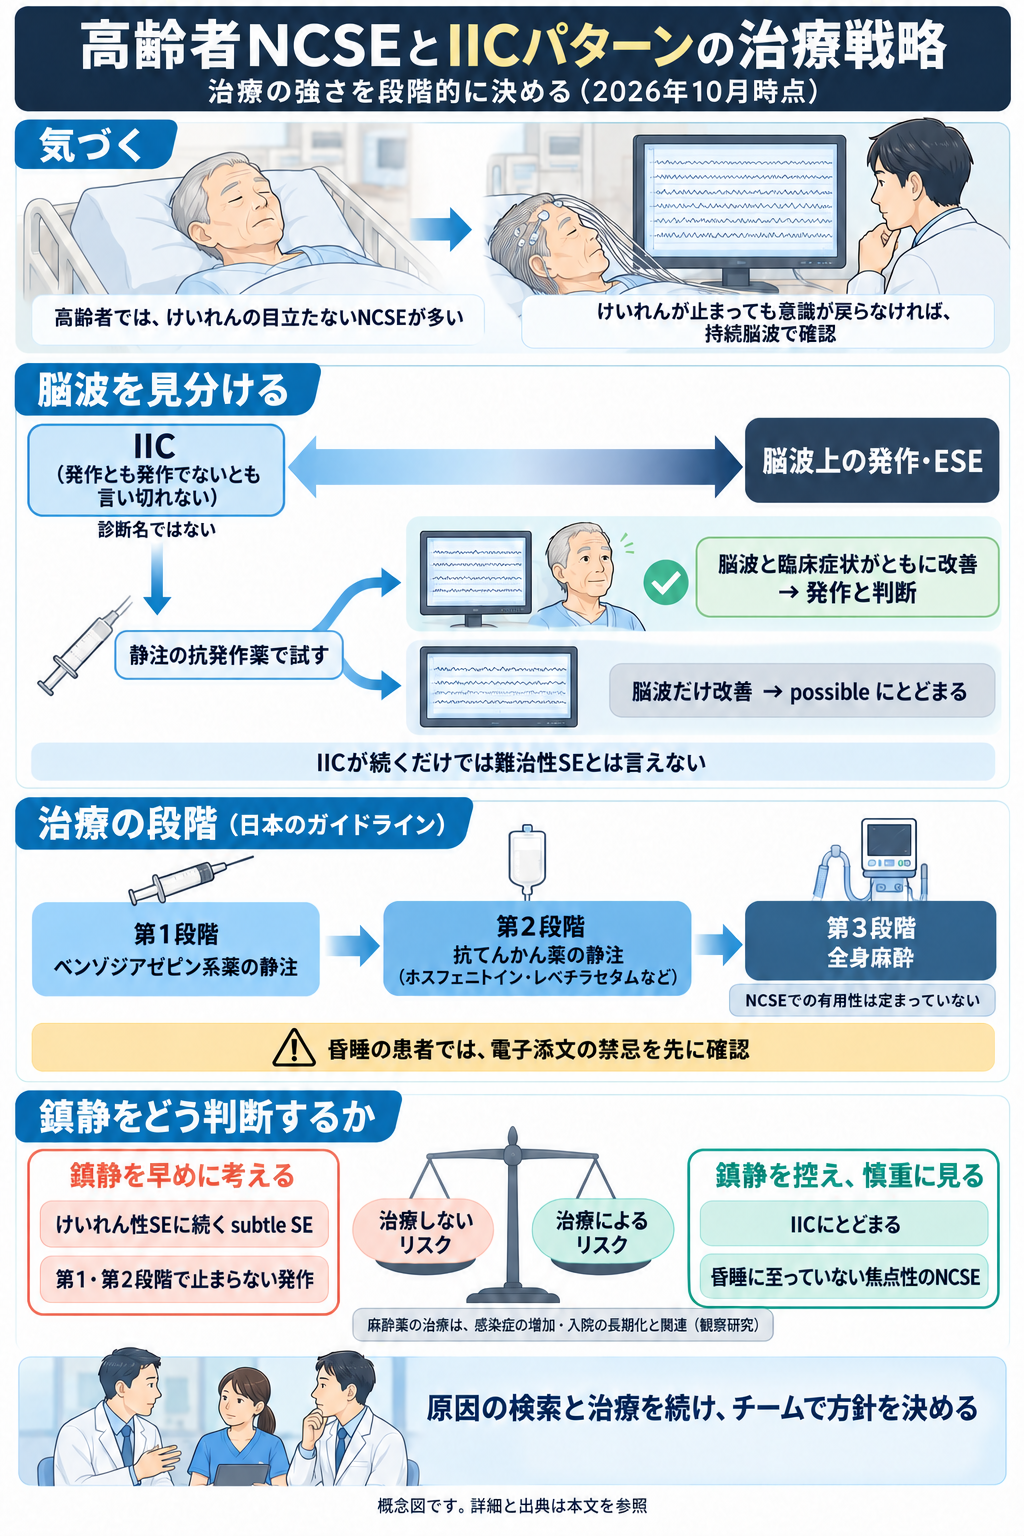
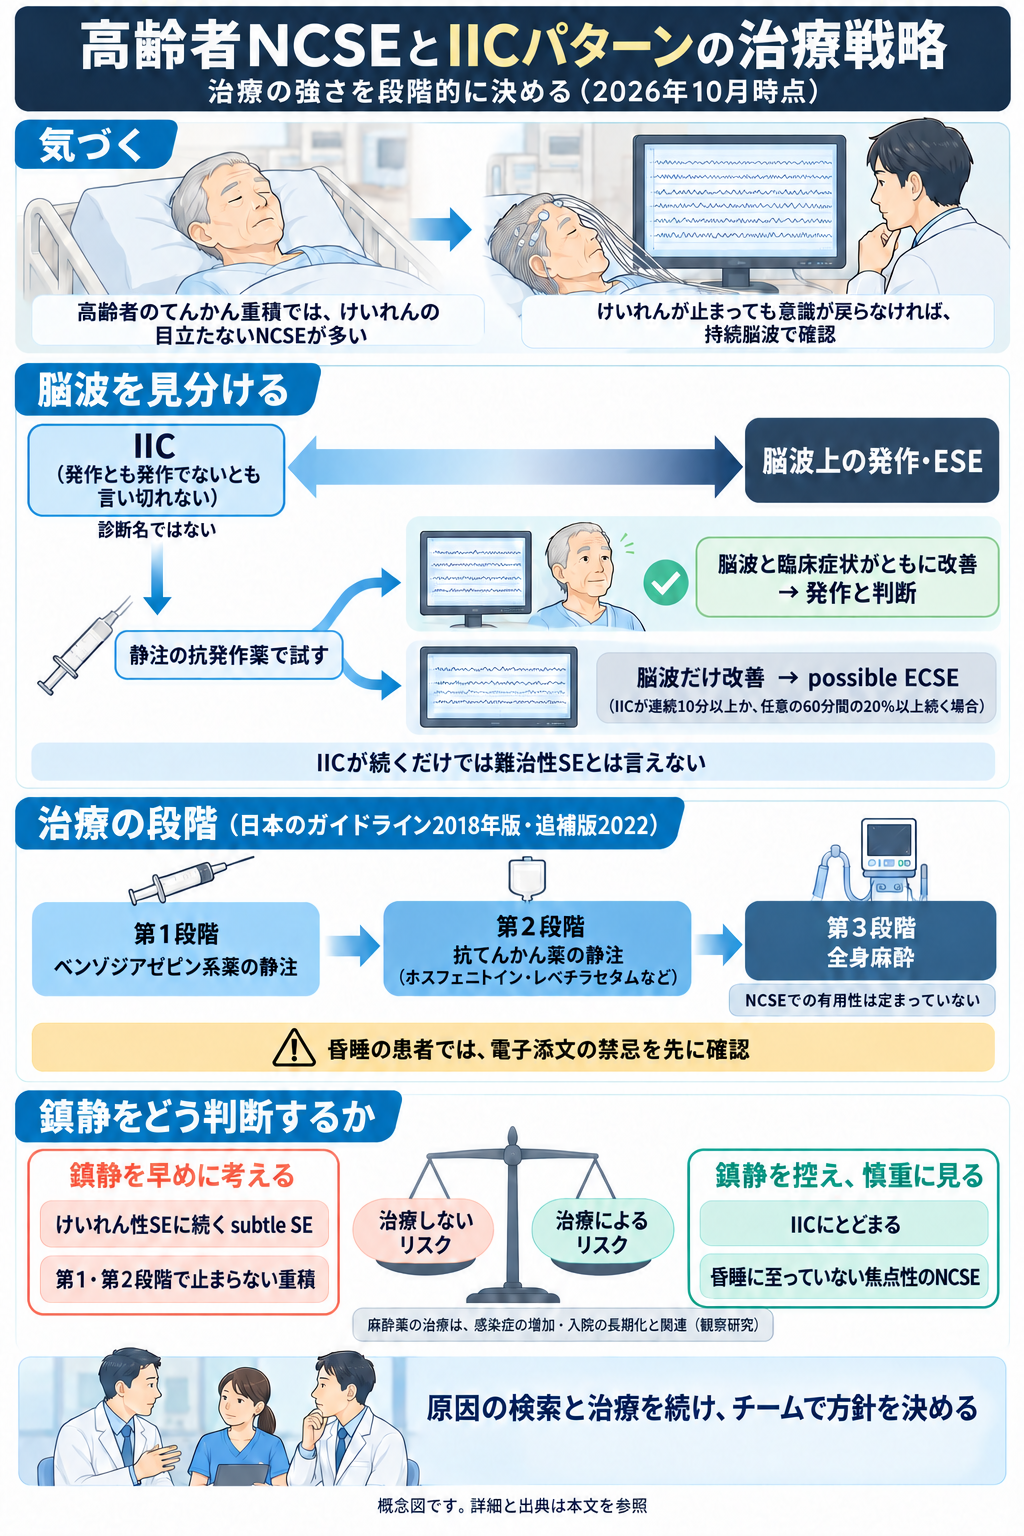
fix: batch33 infographics after final audit (elderly NCSE/IIC v3, NORSE v4)

diff --git a/infographics/elderly-ncse-iic-reference-repair-20261028/index.html b/infographics/elderly-ncse-iic-reference-repair-20261028/index.html
@@ -4,7 +4,7 @@
 <meta charset="utf-8">
 <meta name="viewport" content="width=device-width,initial-scale=1">
 <title>高齢者NCSEとIICパターンの治療戦略｜図解｜医知創造ラボ</title>
-<meta name="description" content="高齢者の非けいれん性てんかん重積状態（NCSE）とIICパターンについて、気づき、脳波の見分け方、日本のガイドラインの治療の段階、鎮静の判断をまとめた図解（2026年10月時点）">
+<meta name="description" content="高齢者の非けいれん性てんかん重積状態（NCSE）とIICパターンについて、気づき、脳波の見分け方、日本のガイドライン（2018年版・追補版2022）の治療の段階、鎮静の判断をまとめた図解（2026年10月時点）">
 <style>body{margin:0;background:#f1f6fa;color:#17364d;font-family:"BIZ UDPGothic","Yu Gothic",Meiryo,sans-serif;line-height:1.8}main{max-width:1100px;margin:auto;padding:18px}h1{font-size:1.6rem;line-height:1.5}figure{margin:28px 0;padding:16px;background:white;border-radius:12px}img{display:block;max-width:100%;height:auto;margin:auto}figcaption{margin:12px 0}a{color:#075a93;overflow-wrap:anywhere}footer{padding:18px;border-top:1px solid #ccd}@media(max-width:600px){main{padding:12px}h1{font-size:1.25rem}figure{padding:8px}}</style>
 </head>
 <body>
@@ -12,7 +12,7 @@
 <h1>高齢者NCSEとIICパターンの治療戦略</h1>
 <p>記事全体の要点をまとめた図解です。対象・根拠・限界は<a href="https://blog.ichisouzo-lab.com/entry/2025/06/19/102321">解説記事</a>の本文と参考文献をご確認ください。</p>
 <figure id="figure-1">
-<a href="infographic.png" target="_blank" rel="noopener"><img src="infographic.png" alt="高齢者NCSEとIICパターンの治療戦略のインフォグラフィック。高齢者ではけいれんの目立たないNCSEが多く、けいれんが止まっても意識が戻らなければ持続脳波で確認すること、IIC（発作とも発作でないとも言い切れない脳波で、診断名ではない）と脳波上の発作・ESEの違い、静注の抗発作薬で試して脳波と臨床症状がともに改善すれば発作と判断し、脳波だけの改善はpossibleにとどまること、IICが続くだけでは難治性SEとは言えないこと、日本のガイドラインの治療の段階（第1段階ベンゾジアゼピン系薬の静注、第2段階抗てんかん薬の静注、第3段階全身麻酔でNCSEでの有用性は定まっていない）と昏睡の患者では電子添文の禁忌を先に確認すること、鎮静を早めに考える場面（けいれん性SEに続くsubtle SE、第1・第2段階で止まらない発作）と控えて慎重に見る場面（IICにとどまる、昏睡に至っていない焦点性のNCSE）、麻酔薬の治療と感染症の増加・入院の長期化との関連（観察研究）を示す（2026年10月時点）" width="1024" height="1536"></a>
+<a href="infographic.png" target="_blank" rel="noopener"><img src="infographic.png" alt="高齢者NCSEとIICパターンの治療戦略のインフォグラフィック。高齢者のてんかん重積ではけいれんの目立たないNCSEが多く、けいれんが止まっても意識が戻らなければ持続脳波で確認すること、IIC（発作とも発作でないとも言い切れない脳波で、診断名ではない）と脳波上の発作・ESEの違い、静注の抗発作薬で試して脳波と臨床症状がともに改善すれば発作と判断し、IICが連続10分以上か任意の60分間の20%以上続いていて脳波だけが改善した場合はpossible ECSEにとどまること、IICが続くだけでは難治性SEとは言えないこと、日本のガイドライン2018年版・追補版2022の治療の段階（第1段階ベンゾジアゼピン系薬の静注、第2段階抗てんかん薬の静注、第3段階全身麻酔でNCSEでの有用性は定まっていない）と昏睡の患者では電子添文の禁忌を先に確認すること、鎮静を早めに考える場面（けいれん性SEに続くsubtle SE、第1・第2段階で止まらない重積）と控えて慎重に見る場面（IICにとどまる、昏睡に至っていない焦点性のNCSE）、麻酔薬の治療と感染症の増加・入院の長期化との関連（観察研究）を示す（2026年10月時点）" width="1024" height="1536"></a>
 <figcaption>高齢者NCSEとIICパターン：気づき、脳波の見分け方、治療の段階、鎮静の判断（2026年10月時点）</figcaption>
 <p><a href="infographic.png" target="_blank" rel="noopener">画像を原寸で開く</a></p>
 </figure>

diff --git a/infographics/norse-review-reference-repair-20261028/index.html b/infographics/norse-review-reference-repair-20261028/index.html
@@ -12,7 +12,7 @@
 <h1>新規発症難治性てんかん重積状態（NORSE）</h1>
 <p>記事全体の要点をまとめた図解です。数値の対象、薬の承認の範囲、根拠の限界は<a href="https://blog.ichisouzo-lab.com/entry/2025/09/14/070616">解説記事</a>の本文と参考文献をご確認ください。</p>
 <figure id="figure-1">
-<a href="infographic.png" target="_blank" rel="noopener"><img src="infographic.png" alt="新規発症難治性てんかん重積状態（NORSE）のインフォグラフィック。NORSEは活動性のてんかんや関係する神経疾患のない人に、明らかな急性・活動性の構造的・中毒性・代謝性の原因がないまま難治性てんかん重積状態が新たに起こる病態で、特定の病名ではないこと、FIRESは重積の2週間前から24時間前までに発熱性の感染症が始まったNORSEであること、十分に調べても半数以上は原因が確定しないこと、最初の48時間はベンゾジアゼピン系薬・第二段階の抗てんかん薬・止まらなければできるだけ早く集中治療室での全身麻酔薬で発作を止めながら、髄液検査・造影MRI・血清と髄液の自己抗体・腫瘍の検索・検体の保存で原因を探すこと、国際的な合意による免疫療法の目安（72時間以内に第一段階、感染症によらず効果が足りなければ7日以内に第二段階の免疫療法とケトン食療法）、予後（院内死亡率は報告によって10〜42%）と長期の支援を示す（2026年10月時点）" width="1024" height="1536"></a>
+<a href="infographic.png" target="_blank" rel="noopener"><img src="infographic.png" alt="新規発症難治性てんかん重積状態（NORSE）のインフォグラフィック。NORSEは活動性のてんかんや関係する神経疾患のない人に、明らかな急性・活動性の構造的・中毒性・代謝性の原因がないまま難治性てんかん重積状態が新たに起こる病態で、特定の病名ではないこと、FIRESは重積の2週間前から24時間前までに発熱性の感染症が始まったNORSEであること、十分に調べても半数以上は原因が確定しないこと、最初の48時間はベンゾジアゼピン系薬・第二段階の抗てんかん薬・止まらなければできるだけ早く集中治療室での全身麻酔薬で発作を止めながら、髄液検査・造影MRI・血清と髄液の自己抗体・腫瘍の検索・検体の保存で原因を探すこと、国際的な合意による免疫療法の目安（72時間以内に第一段階の免疫療法。感染症が原因ではないNORSE/FIRESで第一段階の免疫療法が不十分なら、7日以内に第二段階の免疫療法を始め、病原性の自己抗体があるか強く疑えばリツキシマブ、自己免疫性脳炎の特徴がない原因不明ならアナキンラまたはトシリズマブ。ケトン食療法は発症1週間以内の開始が勧められる）、予後（院内死亡率は報告によって10〜42%）と長期の支援を示す（2026年10月時点）" width="1024" height="1536"></a>
 <figcaption>新規発症難治性てんかん重積状態（NORSE）の定義、最初の48時間に発作を止める治療と原因の検索を並行すること、国際的な合意による免疫療法の目安、予後と長期の支援（2026年10月時点）</figcaption>
 <p><a href="infographic.png" target="_blank" rel="noopener">画像を原寸で開く</a></p>
 </figure>
